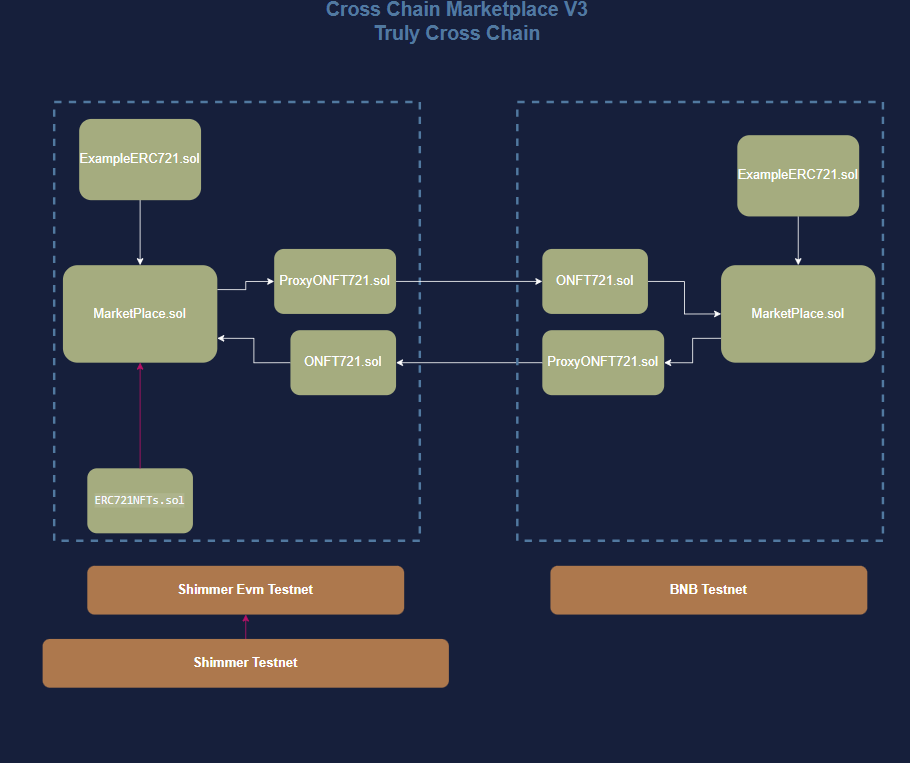
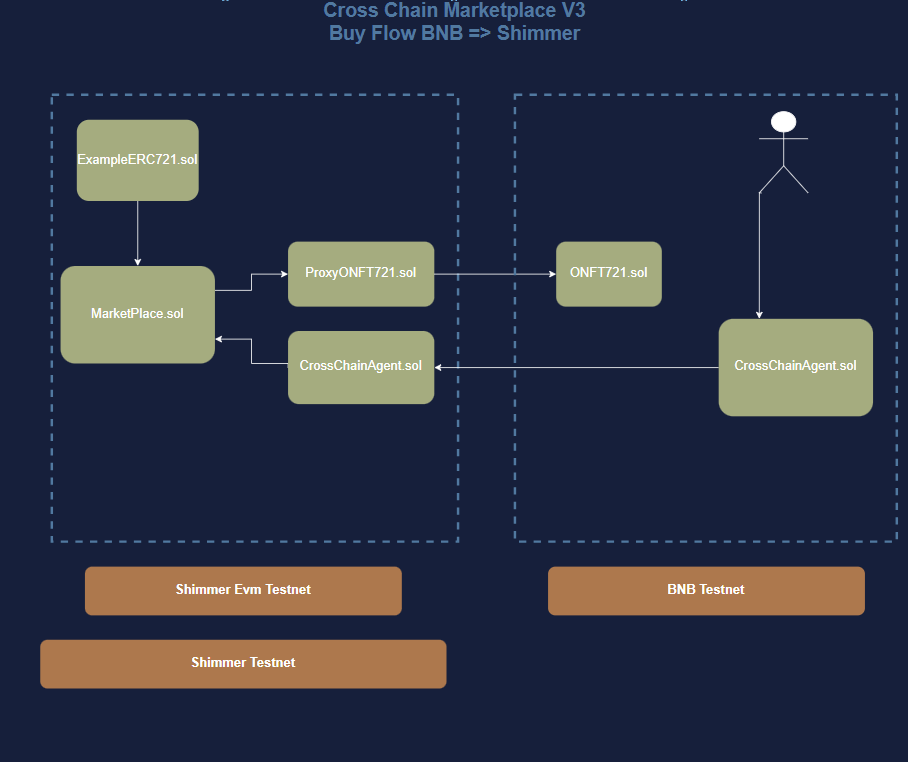
feat: Cross Chain marketplace partIII (#1668)
* feat: Cross Chain marketplace partIII

* feat: Cross Chain marketplace partIII

* fix: Spelling

* Apply suggestions from code review

* fix: some lints

* Apply suggestions from code review

---------

diff --git a/docs/build/isc/v1.3/sidebars.js b/docs/build/isc/v1.3/sidebars.js
@@ -269,6 +269,11 @@ module.exports = {
               label: 'Part II',
               id: 'tutorials/cross-chain-nft-marketplace-part-2',
             },
+            {
+              type: 'doc',
+              label: 'Part III',
+              id: 'tutorials/cross-chain-nft-marketplace-part-3',
+            },
           ],
         },
       ],

diff --git a/docs/build/isc/v1.3/docs/tutorials/cross-chain-nft-marketplace-part-3.md b/docs/build/isc/v1.3/docs/tutorials/cross-chain-nft-marketplace-part-3.md
@@ -1,0 +1,316 @@
+#  Cross-chain NFT Marketplace: Part III
+
+This is the third part of the Cross-chain NFT Marketplace tutorial series, that will guide you to how to evolve the marketplace to handle cross-chain NFT transfers.
+
+[Part I](https://wiki.iota.org/isc/tutorials/cross-chain-nft-marketplace-part-1/) already covered the project's setup and the deployment of the NFT marketplace contract on the ShimmerEVM Testnet. 
+
+[Part II](https://wiki.iota.org/isc/tutorials/cross-chain-nft-marketplace-part-2/) guided you on how to manually bridge NFTs from the BNB Testnet to the ShimmerEVM Testnet and list them on the NFT marketplace.
+
+This final part will evolve the marketplace's architecture to handle cross-chain NFT transfers. You will deploy the necessary contracts on the BNB Testnet and the ShimmerEVM Testnet and configure them to send and receive NFTs across chains. You will also create scripts to automate sending and receiving NFTs across chains.
+
+## Prerequisites
+
+- [Node.js](https://nodejs.org) >=  v18.0
+- [Hardhat](https://hardhat.org) >= v2.0.0
+- [npx](https://www.npmjs.com/package/npx)  >= v7.1.0.
+- The code for this part of the tutorial is based on [Part I](https://wiki.iota.org/isc/tutorials/cross-chain-nft-marketplace-part-1/) and [Part II](https://wiki.iota.org/isc/tutorials/cross-chain-nft-marketplace-part-2/) of the tutorial series.
+
+
+## Configuration
+
+You can use the same `hardhat.config.js` file from [Part I](https://wiki.iota.org/isc/tutorials/cross-chain-nft-marketplace-part-1/).
+
+```javascript reference
+https://github.com/iota-community/ISC-Cross-Chain-NFT-Marketplace/blob/main/hardhat.config.js
+```
+
+## Contracts Architecture
+
+![Contract Archicteture](../../../../../../static/img/tutorials/cross_chain_marketplace/Architecture-V3.png)
+
+In addition to the marketplace contract, you will deploy additional contracts to handle cross-chain NFT transfers and messages. To put things into perspective, here is the flow of the cross-chain NFT buying process from a user on BNB Testnet to the marketplace on ShimmerEVM Testnet:
+
+### Flow
+1- A user `Alice` on ShimmerEVM Testnet lists an NFT on the marketplace. The NFT is an `ONFT` so that the NFT can be transferred across chains. The NFT can also be a normal ERC721 token, but in this case, a proxy contract must be used to transfer the NFT across chains.
+
+2- A user `Bob` with some ERC20 tokens, an `OFT`, on the BNB Testnet wants to buy an NFT listed on the marketplace on the ShimmerEVM Testnet.
+3- `Bob` allows the `CrossChainAgent` contract on the BNB Testnet to transfer the required amount of ERC20 to itself. Note that ERC20 tokens are an `OFT` that can be transferred across chains themselves.
+4- The user calls `buyCrossChain` on the `CrossChainAgent` contract with the required amount of ERC20 tokens and the NFT ID.
+5- The `CrossChainAgent` contract sends a message to the `CrossChainAgent` contract on the ShimmerEVM Testnet with the user's address and the NFT Address and token ID.
+6- The `CrossChainAgent` contract on the ShimmerEVM Testnet receives the message, does some checks, and then calls the `buyItemCrossChain` function on the marketplace contract to complete the purchase.
+7- The marketplace contract interacts with the corresponding ONFT contract to transfer the NFT to the user.
+
+:::note
+
+The flow doesn't include transferring ERC20 tokens across chains. The `CrossChainAgent` contract receives the ERC20 tokens on the BNB Testnet and sends a message to the `CrossChainAgent` contract on the ShimmerEVM Testnet. This can be done, but it would add more complexity to the flow.
+
+:::
+
+
+### MyOFT.sol
+
+A simple ERC20 token contract that you will deploy on the BNB Testnet and the ShimmerEVM Testnet. This will be used as the currency for buying NFTs on the marketplace.
+
+```solidity reference
+https://github.com/iota-community/ISC-Cross-Chain-NFT-Marketplace/blob/main/contracts/CrossChainToken.sol
+```
+
+### CrossChainAgent.sol
+
+The `CrossChainAgent` contract is responsible for sending and receiving messages across chains. It is deployed on both the BNB Testnet and the ShimmerEVM Testnet. The contract has two main functions:
+
+1. `buyCrossChain`: This function is called by the user on the BNB Testnet to send a message to the `CrossChainAgent` contract on the ShimmerEVM Testnet with the user's address and the NFT Address and token ID. It transfers the required amount of ERC20 tokens to the `CrossChainAgent` contract on the BNB Testnet, and calls `_lzsend` to send a message to the `CrossChainAgent` contract on the ShimmerEVM Testnet.
+
+```Solidity
+/// @notice this function is to be called by the user to buy an NFT on BNB
+    function buyCrossChain(
+        uint16 _dstChainId,
+        address _user,
+        address _tokenAddress,
+        address _nftAddress,
+        uint256 _amount,
+        uint256 _tokenId,
+        address payable refundAddress,
+        bytes memory adapterParams
+ ) public payable {
+
+        IERC20(_tokenAddress).transferFrom(_user, address(this), _amount);
+
+        // Update user balance on this chain
+ balances[_user] += _amount;
+
+        // Encode the payload with the required data
+        bytes memory payload = abi.encode(
+            abi.encodePacked(_user),
+ _amount,
+ _nftAddress,
+ _tokenId
+ );
+
+        // Send the payload to the agent on Shimmer
+        _lzSend(_dstChainId, payload, refundAddress, address(0x0), adapterParams, msg.value);
+ }
+```
+
+2. `_nonblockingLzReceive`: This function is called by the LayerZero endpoint on the destination chain upon the receipt of a message. You should override this function in the `CrossChainAgent` contract Testnet to call the `_notifyMarketPlace` function on the marketplace contract to complete the purchase.
+
+```solidity
+/// @notice This function is called by LayerZero when a cross-chain message is received
+    function _nonblockingLzReceive(
+        uint16 ,
+        bytes memory ,
+        uint64 _nonce,
+        bytes memory _payload
+ ) internal override {
+        // Decode the payload
+ (bytes memory toAddressBytes, uint256 amount, address tokenAddress, uint256 tokenId) = abi.decode(_payload, (bytes, uint256, address, uint256));
+
+        // Convert toAddressBytes to an address
+        address to;
+        assembly {
+ to := mload(add(toAddressBytes, 20))
+ }
+
+        // Increment the user's balance
+ balances[to] += amount;
+
+        // Emit events
+        emit CustomMessageReceived(amount, tokenAddress, tokenId, to);
+        emit EmitPayload(_payload);
+
+        // Notify the marketplace that the balance is updated (this could be another cross-chain message)
+        _notifyMarketplace(tokenAddress, tokenId, to, balances[to]);
+ }
+```
+
+The full contract code is as follows:
+
+```solidity reference
+https://github.com/iota-community/ISC-Cross-Chain-NFT-Marketplace/blob/main/contracts/CrossChainAgent.sol
+```
+
+### NFTMarketPlaceV2.sol
+
+The `NFTMarketPlaceV2` contract is an updated version of the `NFTMarketPlace` contract that you deployed in [Part I](https://wiki.iota.org/isc/tutorials/cross-chain-nft-marketplace-part-1/). This version includes a new function `buyItemCrossChain` that is called by the `CrossChainAgent` contract on the ShimmerEVM Testnet to complete the purchase of an NFT.
+
+The function checks if the item is listed and available and if the user has enough balance to complete the purchase. It then transfers the NFT to the user by calling the NFT's proxy contract (the contract responsible for transferring the NFT cross-chain). The user's balance is updated, and the item's availability is set to false.
+
+```solidity
+    function buyItemCrossChain(
+        address nftAddress,
+        uint256 tokenId,
+        address payable buyer,
+        uint256 amount
+ ) external nonReentrant isListed(nftAddress, tokenId) {
+ Listing memory listedItem = s_listings[nftAddress][tokenId];
+
+        _validateAmount(amount, listedItem.price, nftAddress, tokenId);
+
+        delete s_listings[nftAddress][tokenId];
+
+        _approveNFT(listedItem.proxyContract, nftAddress, tokenId);
+
+        bytes memory adapterParams = _createAdapterParams(buyer);
+
+        uint256 fee = _estimateFee(listedItem.proxyContract, buyer, tokenId, adapterParams);
+
+        _sendNFT(listedItem, buyer, tokenId, adapterParams, fee);
+
+ s_proceeds[listedItem.seller] += amount;
+
+        emit ItemBought(msg.sender, nftAddress, tokenId, listedItem.price);
+ }
+```
+
+The full contract code is as follows:
+
+```solidity reference
+https://github.com/iota-community/ISC-Cross-Chain-NFT-Marketplace/blob/main/contracts/NFTMarketPlaceV2.sol
+```
+
+
+## Scripts
+
+You will add scripts that perform the following tasks in order:
+
+1. [Deploy the `NFTMarketPlaceV2` contract to the ShimmerEVM Testnet.](#deploy-nftmarketplacev2)
+
+2. [Deploy an `ONFT721` contract on ShimmerEVM Testnet and BNB Testnet, and configure them to send and receive NFTs across chains.](#deploy-onft721)
+
+3. [Mint an NFT (from the `ONFT` contract), allow the marketplace to spend it then list it on the marketplace.](#mint-an-nft-and-list-it-on-the-marketplace)
+
+4. [Deploy the `CrossChainAgent` contract to the BNB Testnet and the ShimmerEVM Testnet.](#deploy-the-crosschainagent-contract)
+
+5. [Configure the `CrossChainAgent` contract on the BNB Testnet to send messages to the `CrossChainAgent` contract on the ShimmerEVM Testnet.](#configure-crosschainagent)
+
+6. [Call the `buyCrossChain` function on the `CrossChainAgent` contract on the BNB Testnet to buy the NFT listed on the marketplace on the ShimmerEVM Testnet.](#call-buycrosschain-to-buy-the-nft)
+
+### Deploy NFTMarketPlaceV2
+
+This script will deploy the `MarketPlaceV2` contract to the Shimmer Testnet, and save the contract's address to a file called `MarketplaceV2_Shimmer.txt`.
+
+
+```javascript reference
+https://github.com/iota-community/ISC-Cross-Chain-NFT-Marketplace/blob/main/scripts/deploy_marketplace_v2_shimmer.js
+```
+You can run this script with the following command:
+
+```bash
+npx hardhat run scripts/deploy_marketplace_v2_shimmer.js --network shimmerevm-testnet
+```
+
+### Deploy ONFT721
+
+The next step is to deploy the `ONFT721` contract to the ShimmerEVM Testnet and the BNB Testnet. The `ONFT721` contract is an ERC721 contract that can send and receive NFTs across chains.
+
+```javascript reference
+https://github.com/iota-community/ISC-Cross-Chain-NFT-Marketplace/blob/main/scripts/deploy_onft_shimmer.js
+```
+
+You can run both scripts by executing the following commands:
+
+```bash
+npx hardhat run scripts/deploy_onft_shimmer.js --network shimmerevm-testnet
+npx hardhat run scripts/deploy_onft_bnb.js  --network bnbTestnet
+```
+
+### Set the Trusted Remote Addresses of ONFT on BNB and Shimmer
+
+After deploying the ONFT contracts, you need to connect them by caling `setTrustedRemoteAddress` on the `ONFT721` contract on the ShimmerEVM Testnet and BNB Testnet.
+
+```javascript reference
+https://github.com/iota-community/ISC-Cross-Chain-NFT-Marketplace/blob/main/scripts/set_trusted_remote_shimmer.js
+```
+
+```javascript reference
+https://github.com/iota-community/ISC-Cross-Chain-NFT-Marketplace/blob/main/scripts/set_trusted_remote_bnb.js
+```
+
+You can run the script by executing the following commands:
+
+```bash
+npx hardhat run scripts/set_trusted_remote_bnb.js --network bnbTestnet
+npx hardhat run scripts/set_trusted_remote_shimmer.js --network shimmerevm-testnet
+```
+
+### Mint an NFT and List It on the Marketplace
+
+After you deploy and configure the `ONFT721` contracts, you can mint an NFT, allow the marketplace to spend it, and list it on the marketplace using the following scripts:
+
+```javascript reference
+https://github.com/iota-community/ISC-Cross-Chain-NFT-Marketplace/blob/main/scripts/mint_nft_shimmer.js
+```
+
+```javascript reference
+https://github.com/iota-community/ISC-Cross-Chain-NFT-Marketplace/blob/main/scripts/approve_myERC721_for_marketplace.js
+```
+
+You can run the scripts by executing the following commands:
+
+```bash
+npx hardhat run scripts/mint_nft_shimmer.js --network shimmerevm-testnet
+npx hardhat run scripts/approve_myERC721_for_marketplace.js --network shimmerevm-testnet
+```
+
+### Deploy the `CrossChainAgent` Contract
+
+Once you have an NFT listed on the marketplace, you need to deploy the `CrossChainAgent` contract to the BNB Testnet and the ShimmerEVM Testnet.
+
+
+```javascript reference
+https://github.com/iota-community/ISC-Cross-Chain-NFT-Marketplace/blob/main/scripts/deploy_messanger_bnb.js
+```
+
+```javascript reference
+https://github.com/iota-community/ISC-Cross-Chain-NFT-Marketplace/blob/main/scripts/deploy_messanger_shimmer.js
+```
+
+You can run the scripts by executing the following commands:
+
+```bash
+npx hardhat run scripts/deploy_messanger_shimmer.js --network shimmerevm-testnet
+npx hardhat run scripts/deploy_messanger_bnb.js --network bnbTestnet
+```
+
+### Configure the `CrossChainAgent` Contracts
+
+After deploying the `CrossChainAgent` contracts, you need to configure the `CrossChainAgent` contract on the BNB Testnet to send messages to the `CrossChainAgent` contract on the ShimmerEVM Testnet. This is the same process as setting the trusted remote address for the `ONFT721` contracts.
+
+```javascript reference
+https://github.com/iota-community/ISC-Cross-Chain-NFT-Marketplace/blob/main/scripts/set_trusted_remote_agent_bnb.js
+```
+
+```javascript reference
+https://github.com/iota-community/ISC-Cross-Chain-NFT-Marketplace/blob/main/scripts/set_trusted_remote_agent_shimmer.js
+```
+
+You can run the scripts by executing the following commands:
+
+```bash
+npx hardhat run scripts/set_trusted_remote_agent_bnb.js  --network bnbTestnet
+npx hardhat run scripts/set_trusted_remote_agent_shimmer.js --network shimmerevm-testnet
+```
+
+### Call `buyCrossChain` to buy the NFT
+
+Finally, on the BNB Tetnet, call the `CrossChainAgent` contract to buy the NFT listed on the marketplace on the ShimmerEVM Testnet.
+
+```javascript reference
+https://github.com/iota-community/ISC-Cross-Chain-NFT-Marketplace/blob/main/scripts/send_msg_bnb.js
+```
+You can run the script by executing the following command:
+
+```bash
+npx hardhat run scripts/send_msg_bnb.js  --network bnbTestnet
+```
+
+
+:::note
+For the OFTs, we are using the `MyOFT` contract, which is a simple ERC20 token contract. You can deploy this contract to the BNB Testnet and the ShimmerEVM Testnet using the same process as the `ONFT721` contract.
+:::
+
+
+
+## Conclusion
+
+In the third part of the tutorial, you have automated the buy flow of the cross-chain NFT marketplace. You deployed the necessary contracts on the BNB Testnet and the ShimmerEVM Testnet and configured them to send and receive NFTs across chains. 
